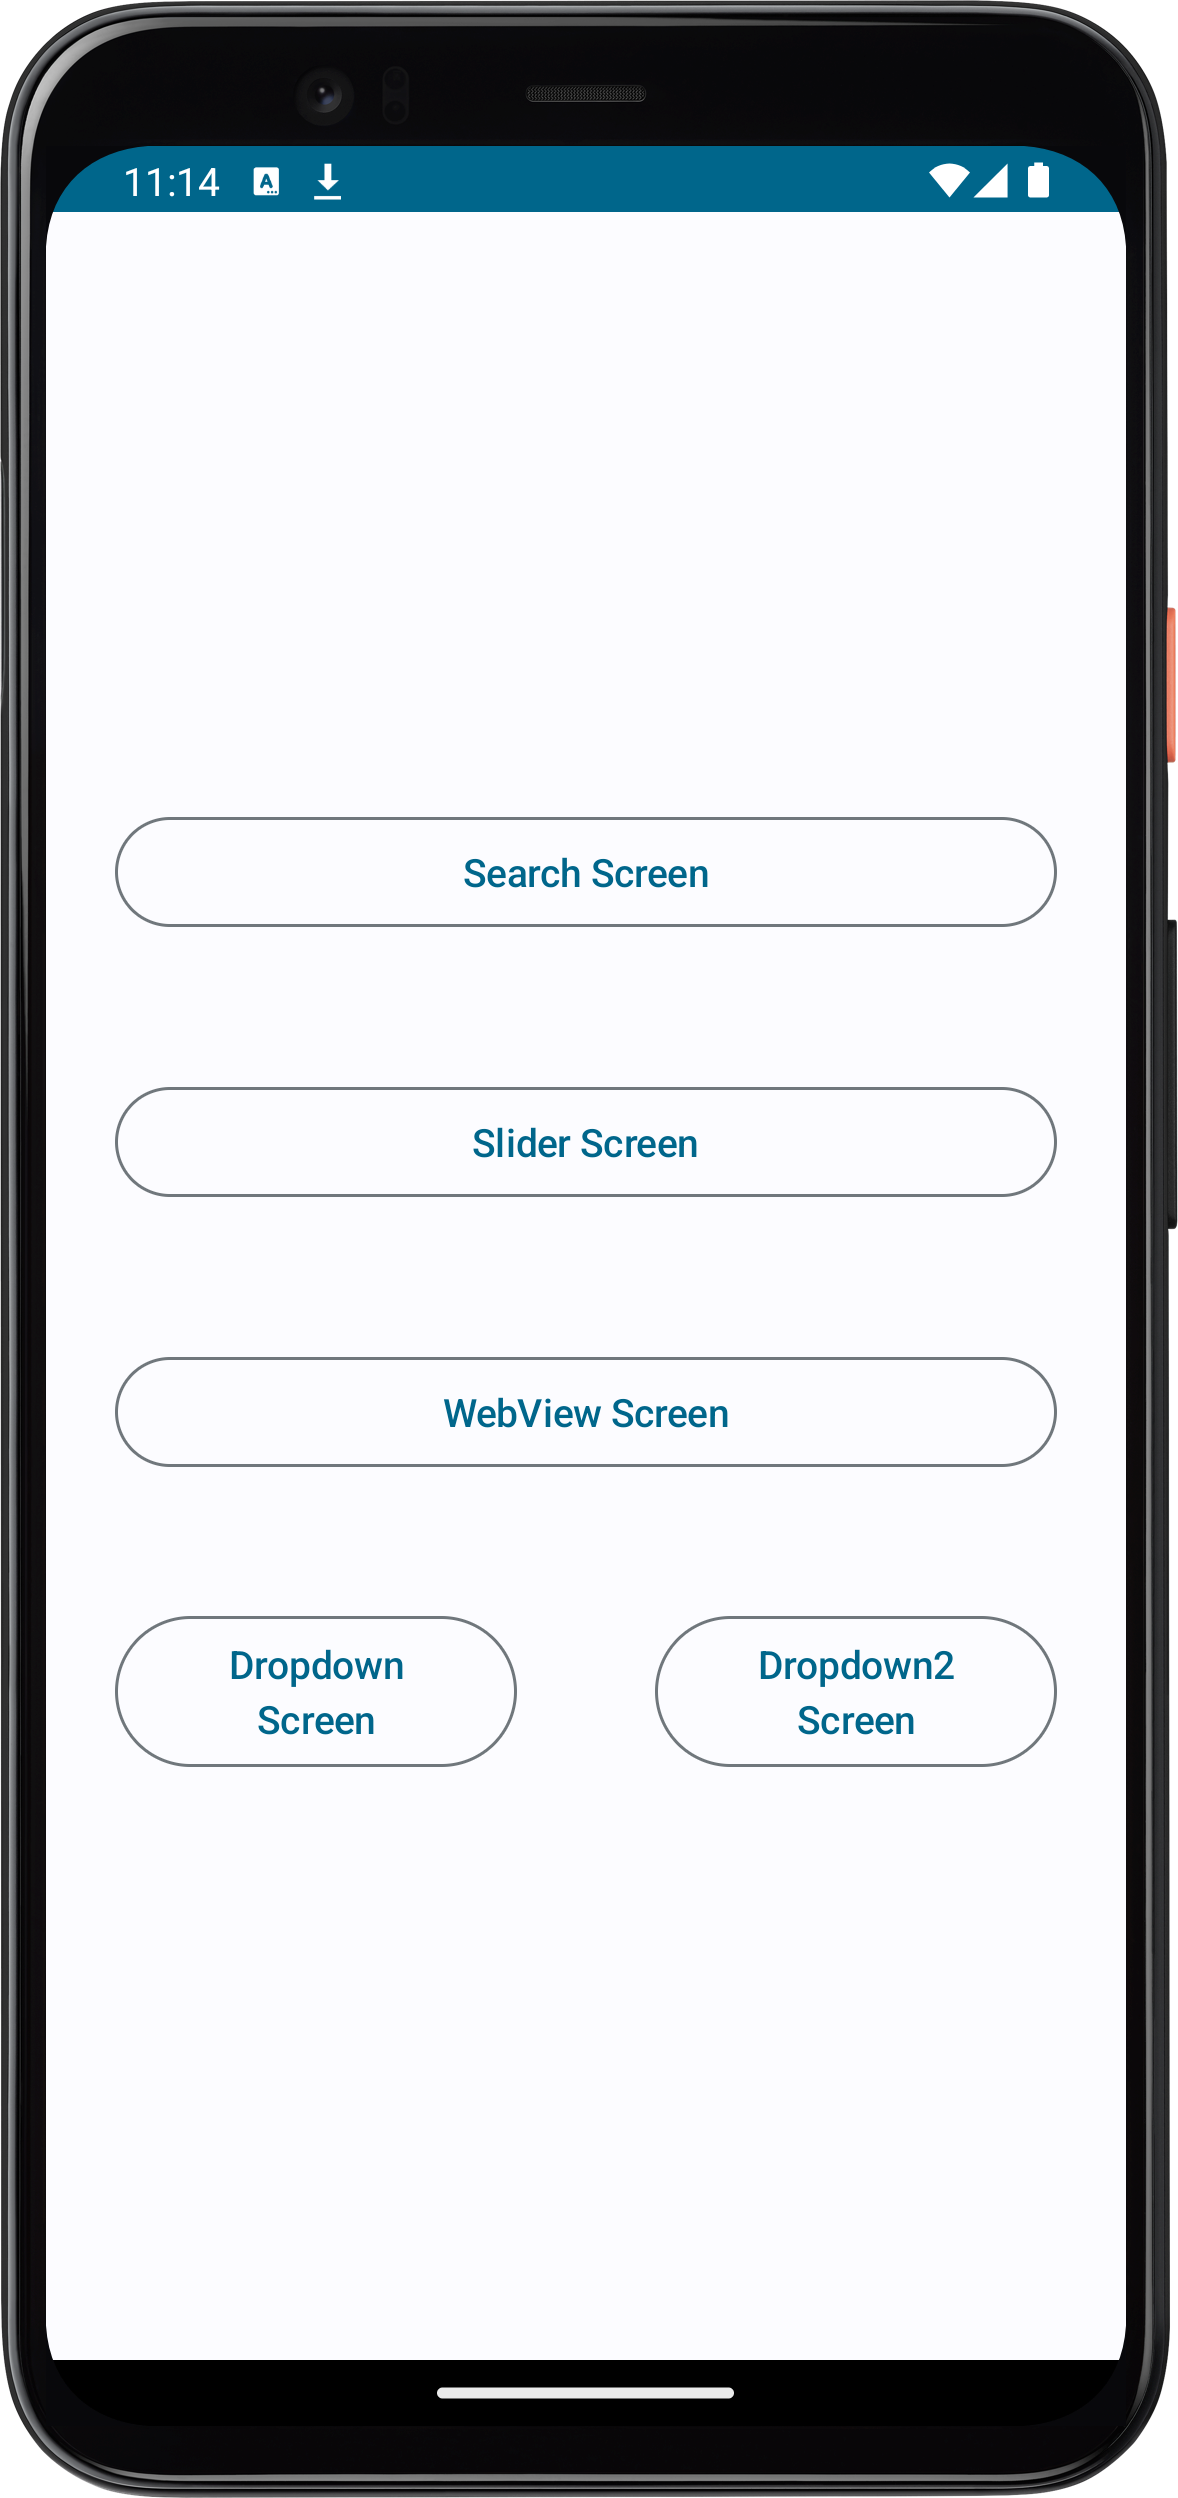
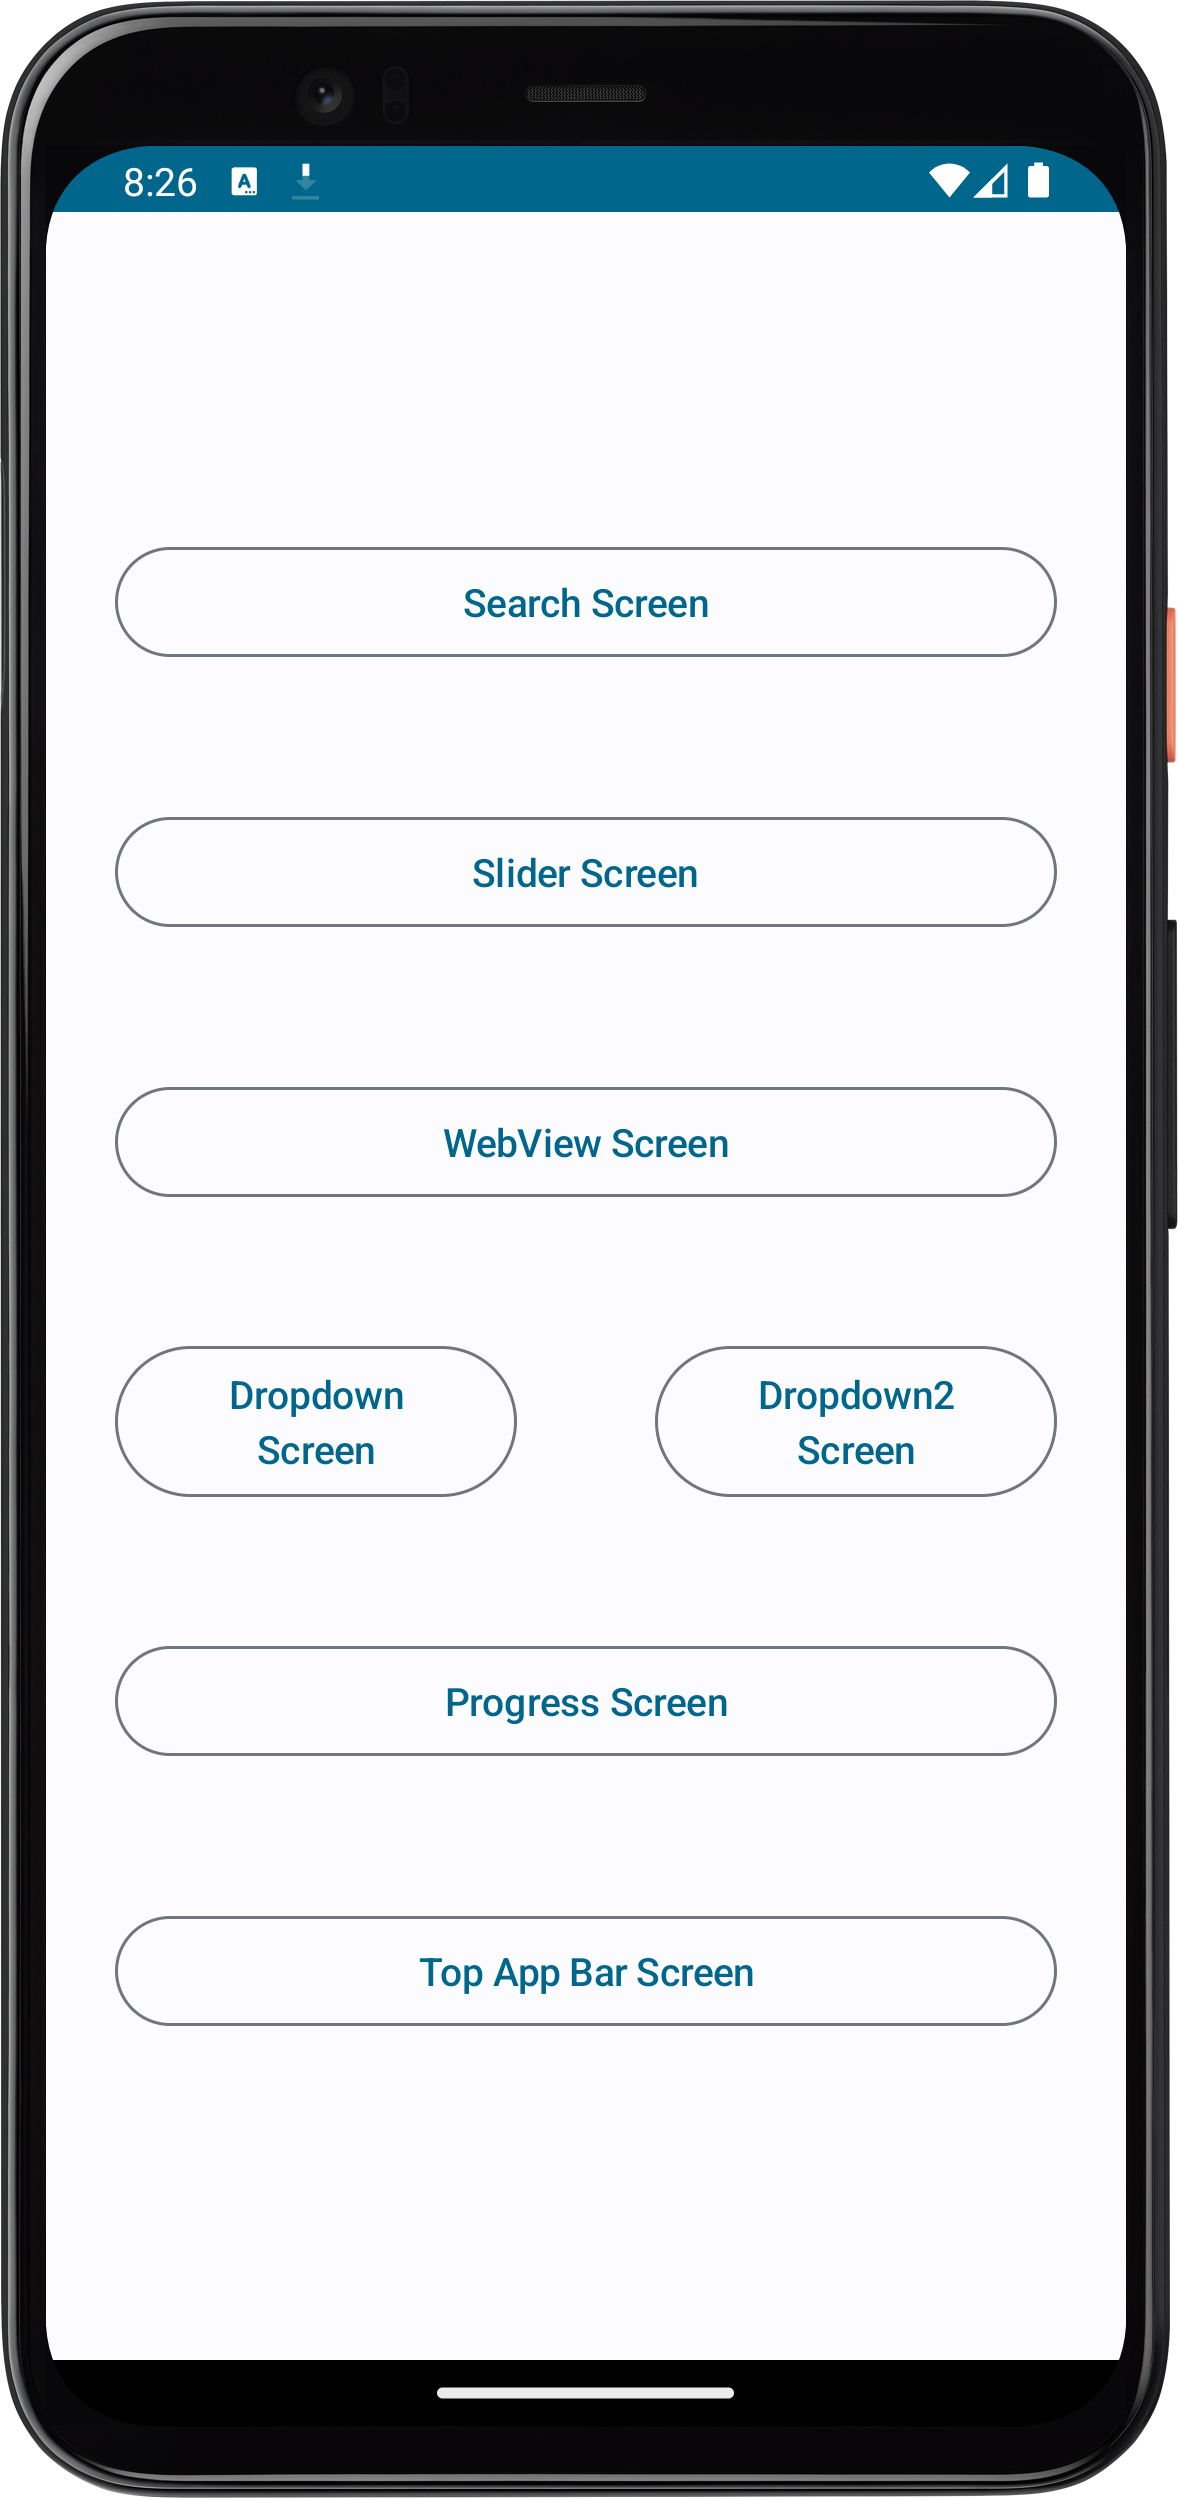
Added ProgressScreen & TopAppBarScreen

diff --git a/app/src/main/java/com/ozturksahinyetisir/composeexample/presentation/TopAppBar/TopAppBarScreen.kt b/app/src/main/java/com/ozturksahinyetisir/composeexample/presentation/TopAppBar/TopAppBarScreen.kt
@@ -1,0 +1,67 @@
+package com.ozturksahinyetisir.composeexample.presentation.TopAppBar
+import androidx.compose.foundation.layout.padding
+
+import androidx.compose.material3.*
+import androidx.compose.runtime.Composable
+import androidx.compose.ui.Modifier
+import androidx.compose.ui.graphics.Color
+import androidx.compose.material.icons.Icons
+import androidx.compose.ui.input.nestedscroll.nestedScroll
+import androidx.compose.foundation.lazy.LazyColumn
+import androidx.compose.ui.res.stringResource
+import androidx.compose.material.icons.filled.Menu
+import androidx.compose.material.icons.filled.MoreVert
+import androidx.compose.material.icons.filled.Search
+import androidx.compose.ui.unit.dp
+import com.ozturksahinyetisir.composeexample.R
+@OptIn(ExperimentalMaterial3Api::class)
+@Composable
+fun TopAppBarScreen() {
+    val enterScrollBehavior = TopAppBarDefaults.enterAlwaysScrollBehavior()
+    Scaffold(
+        modifier = Modifier.nestedScroll(enterScrollBehavior.nestedScrollConnection),
+        topBar = {
+           TopAppBar(enterScrollBehavior)
+
+        }
+    ) { paddingValues ->
+        LazyColumn(modifier = Modifier.padding(paddingValues)) {
+            items(35) {
+                Text(text = stringResource(id = R.string.lorem_text),
+                    modifier = Modifier.padding(start = 16.dp, end = 16.dp))
+
+            }
+        }
+    }
+}
+
+@OptIn(ExperimentalMaterial3Api::class)
+@Composable
+fun TopAppBar(
+    scrollBehavior: TopAppBarScrollBehavior? = null,
+) {
+    TopAppBar(
+        title = { Text(text = "TopAppBar") },
+        navigationIcon = {
+            IconButton(onClick = { /* TODO: Change type of text or change text*/ }) {
+                Icon(Icons.Default.Menu, contentDescription = "menu")
+            }
+        },
+        actions = {
+            IconButton(onClick = { /* TODO: Search content */ }) {
+                Icon(Icons.Default.Search, contentDescription = "search")
+            }
+            IconButton(onClick = { /* TODO: Credits or copy all*/ }) {
+                Icon(Icons.Default.MoreVert, contentDescription = "more")
+            }
+        },
+        scrollBehavior = scrollBehavior,
+        colors = TopAppBarDefaults.mediumTopAppBarColors(
+            containerColor = Color.Black,
+            titleContentColor = Color.White,
+            actionIconContentColor = Color.White,
+            navigationIconContentColor = Color.White,
+        )
+    )
+}
+

diff --git a/app/src/main/java/com/ozturksahinyetisir/composeexample/presentation/Progress/ProgressScreen.kt b/app/src/main/java/com/ozturksahinyetisir/composeexample/presentation/Progress/ProgressScreen.kt
@@ -1,0 +1,43 @@
+package com.ozturksahinyetisir.composeexample.presentation.Progress
+
+import androidx.compose.runtime.Composable
+import androidx.compose.animation.core.animateFloatAsState
+import androidx.compose.foundation.layout.Arrangement
+import androidx.compose.foundation.layout.Column
+import androidx.compose.foundation.layout.fillMaxSize
+import androidx.compose.material3.CircularProgressIndicator
+import androidx.compose.material3.LinearProgressIndicator
+import androidx.compose.material3.ProgressIndicatorDefaults
+import androidx.compose.runtime.LaunchedEffect
+import androidx.compose.runtime.getValue
+import androidx.compose.runtime.mutableStateOf
+import androidx.compose.runtime.remember
+import androidx.compose.runtime.setValue
+import androidx.compose.ui.Alignment
+import androidx.compose.ui.Modifier
+import androidx.compose.ui.unit.dp
+import kotlinx.coroutines.delay
+@Composable
+fun ProgressScreen() {
+    var downloadProgress by remember { mutableStateOf(0.1f) }
+    val animatedDownloadProgress by animateFloatAsState(
+        targetValue = downloadProgress,
+        animationSpec = ProgressIndicatorDefaults.ProgressAnimationSpec
+    )
+
+    LaunchedEffect(downloadProgress) {
+        while (downloadProgress < 1f) {
+            delay(1000L)
+            downloadProgress += 0.1f
+        }
+    }
+
+    Column(
+        modifier = Modifier.fillMaxSize(),
+        verticalArrangement = Arrangement.spacedBy(10.dp, Alignment.CenterVertically),
+        horizontalAlignment = Alignment.CenterHorizontally
+    ) {
+        CircularProgressIndicator()
+        LinearProgressIndicator(progress = animatedDownloadProgress)
+    }
+}

diff --git a/app/src/main/java/com/ozturksahinyetisir/composeexample/navigation/NavigationContainer.kt b/app/src/main/java/com/ozturksahinyetisir/composeexample/navigation/NavigationContainer.kt
@@ -10,6 +10,9 @@ import com.ozturksahinyetisir.composeexample.presentation.Slider.SliderScreen
 import com.ozturksahinyetisir.composeexample.presentation.WebView.WebViewScreen
 import com.ozturksahinyetisir.composeexample.presentation.Dropdown.DropdownScreen
 import com.ozturksahinyetisir.composeexample.presentation.Dropdown.DropdownScreen2
+import com.ozturksahinyetisir.composeexample.presentation.Progress.ProgressScreen
+import com.ozturksahinyetisir.composeexample.presentation.TopAppBar.TopAppBarScreen
+
 @Composable
 fun NavigationContainer(navController:NavHostController,
 ){
@@ -31,6 +34,12 @@ fun NavigationContainer(navController:NavHostController,
         }
         composable("dropdown2_screen"){
             DropdownScreen2()
+        }
+        composable("progress_screen"){
+            ProgressScreen()
+        }
+        composable("top_app_bar_screen"){
+            TopAppBarScreen()
         }
     }
 }

diff --git a/app/src/main/java/com/ozturksahinyetisir/composeexample/presentation/Home/HomeScreen.kt b/app/src/main/java/com/ozturksahinyetisir/composeexample/presentation/Home/HomeScreen.kt
@@ -62,6 +62,22 @@ fun HomeScreen(navController: NavController) {
                 Text("Dropdown2 Screen", textAlign = TextAlign.Center)
             }
         }
+        OutlinedButton(
+            onClick = { navController.navigate("progress_screen") },
+            modifier = Modifier
+                .fillMaxWidth()
+                .padding(25.dp)
+        ) {
+            Text("Progress Screen", textAlign = TextAlign.Center)
+        }
+        OutlinedButton(
+            onClick = { navController.navigate("top_app_bar_screen") },
+            modifier = Modifier
+                .fillMaxWidth()
+                .padding(25.dp)
+        ) {
+            Text("Top App Bar Screen", textAlign = TextAlign.Center)
+        }
     }
 
 }
